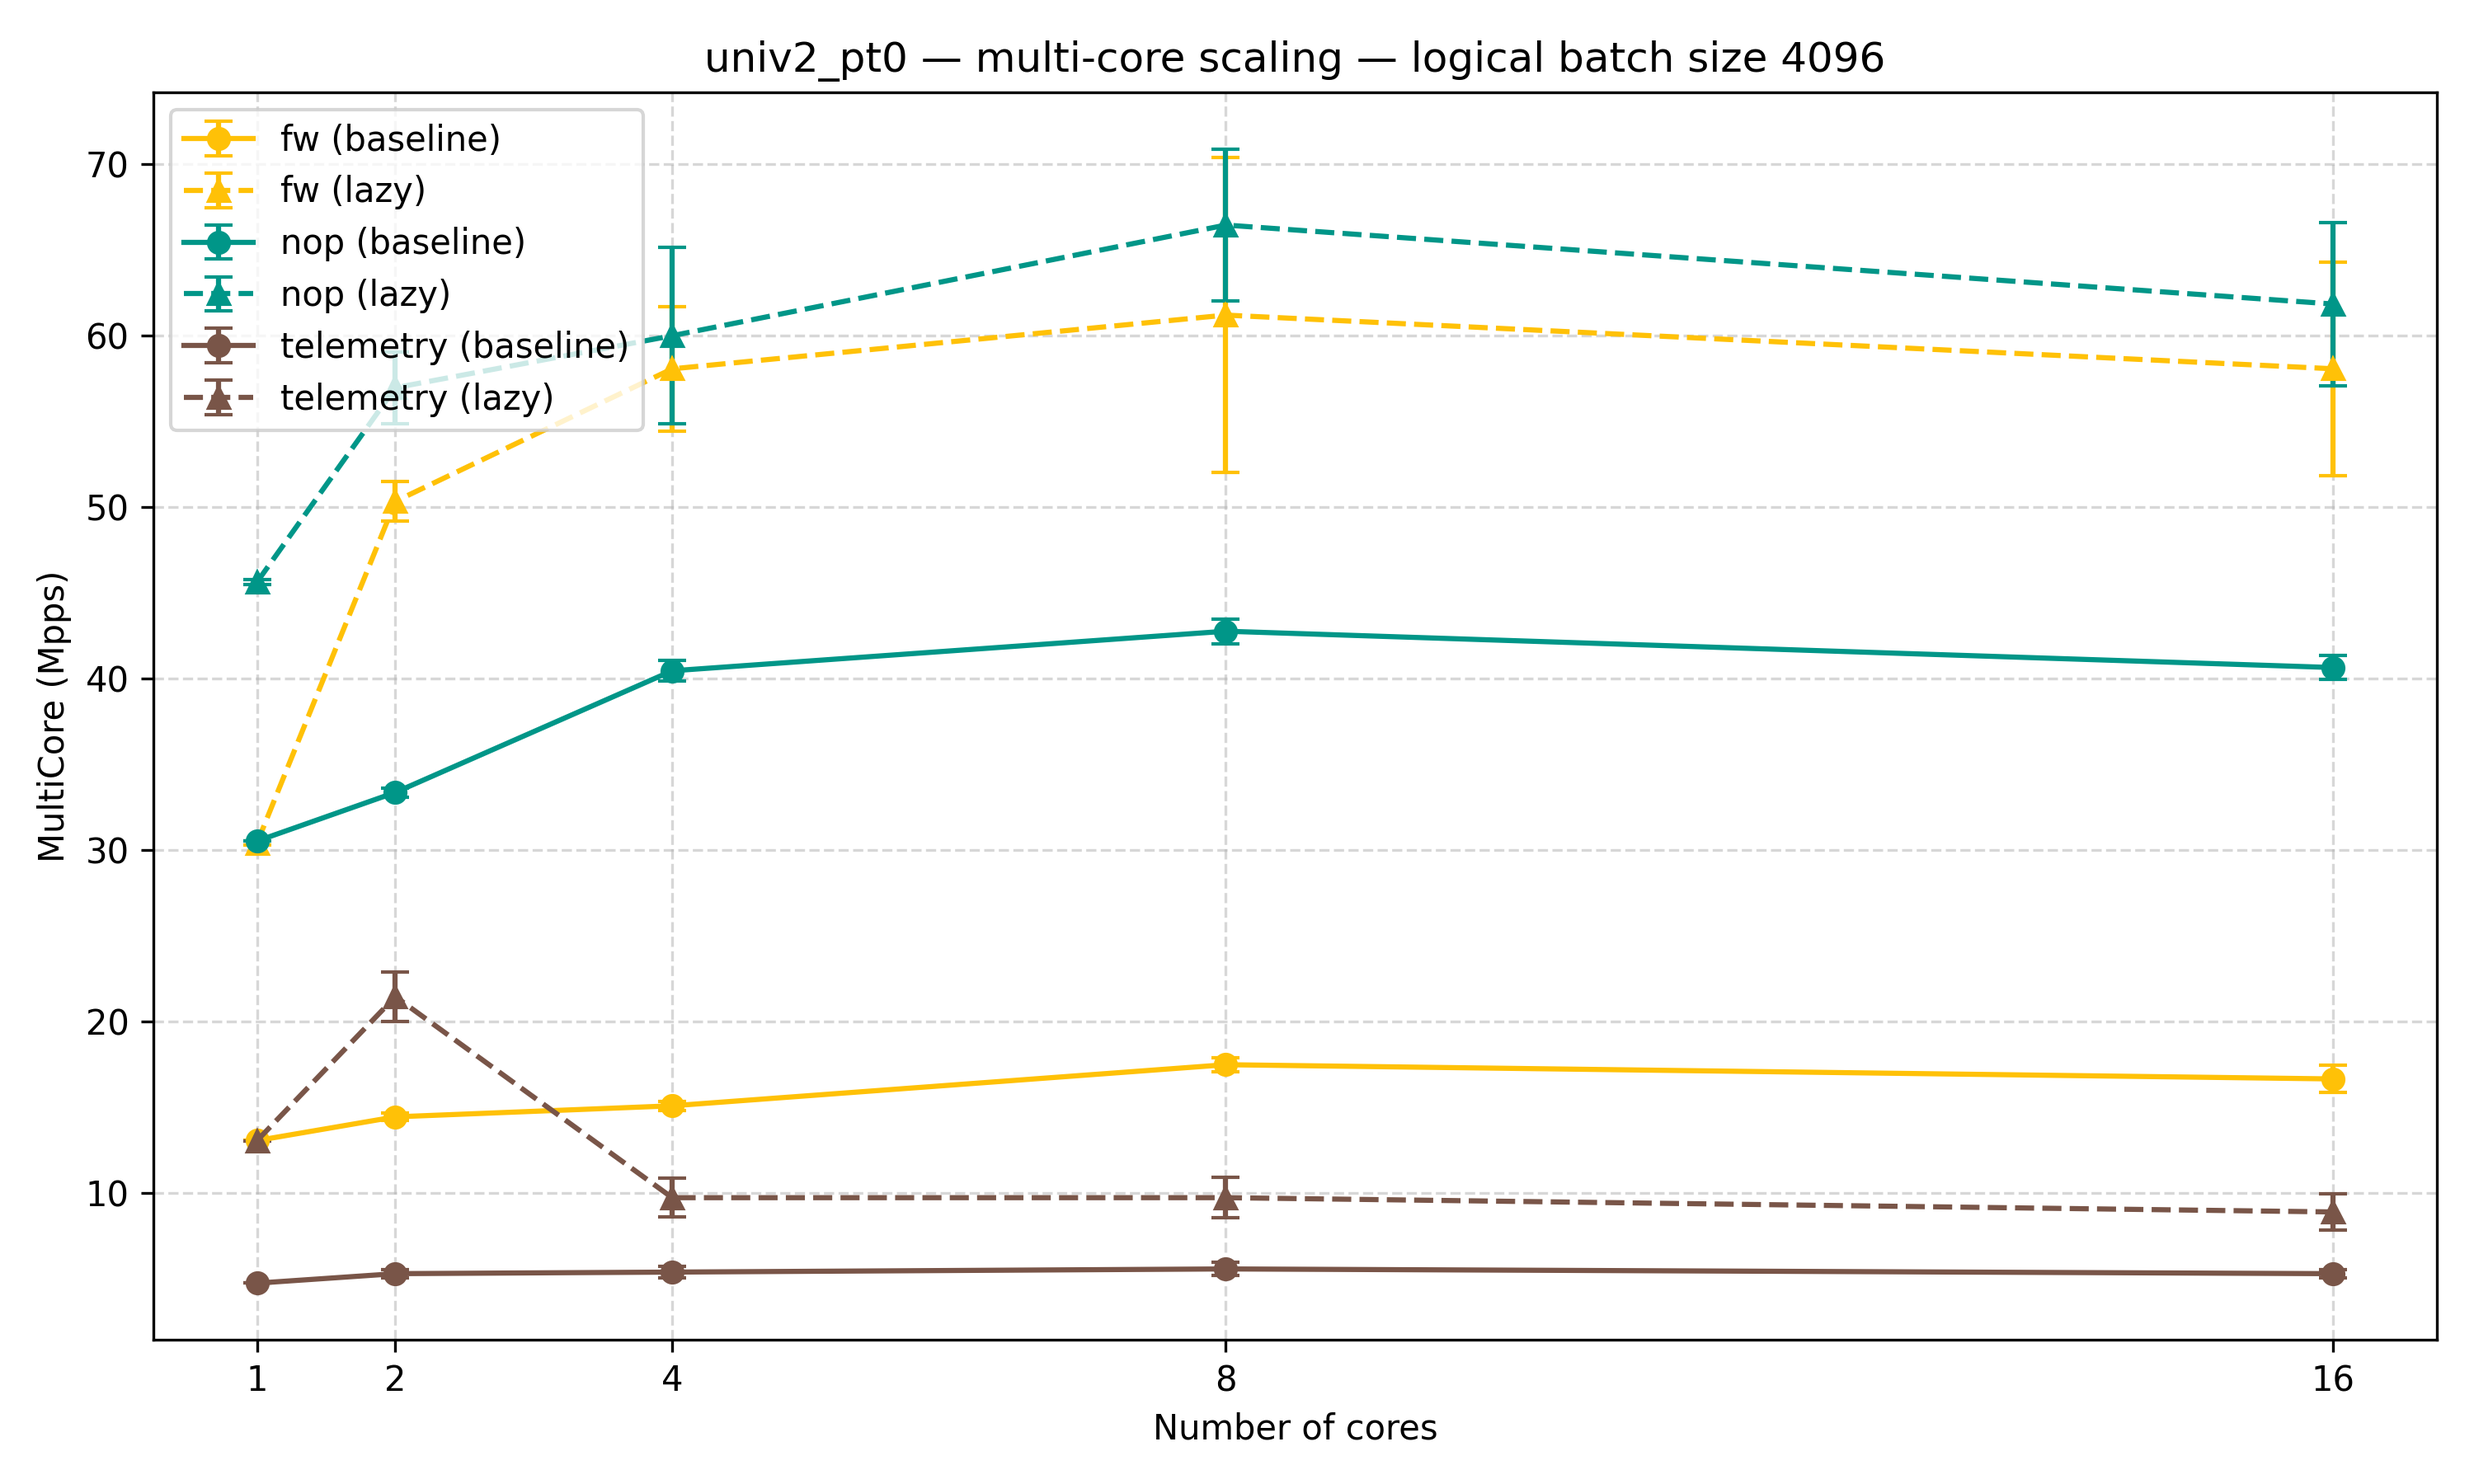
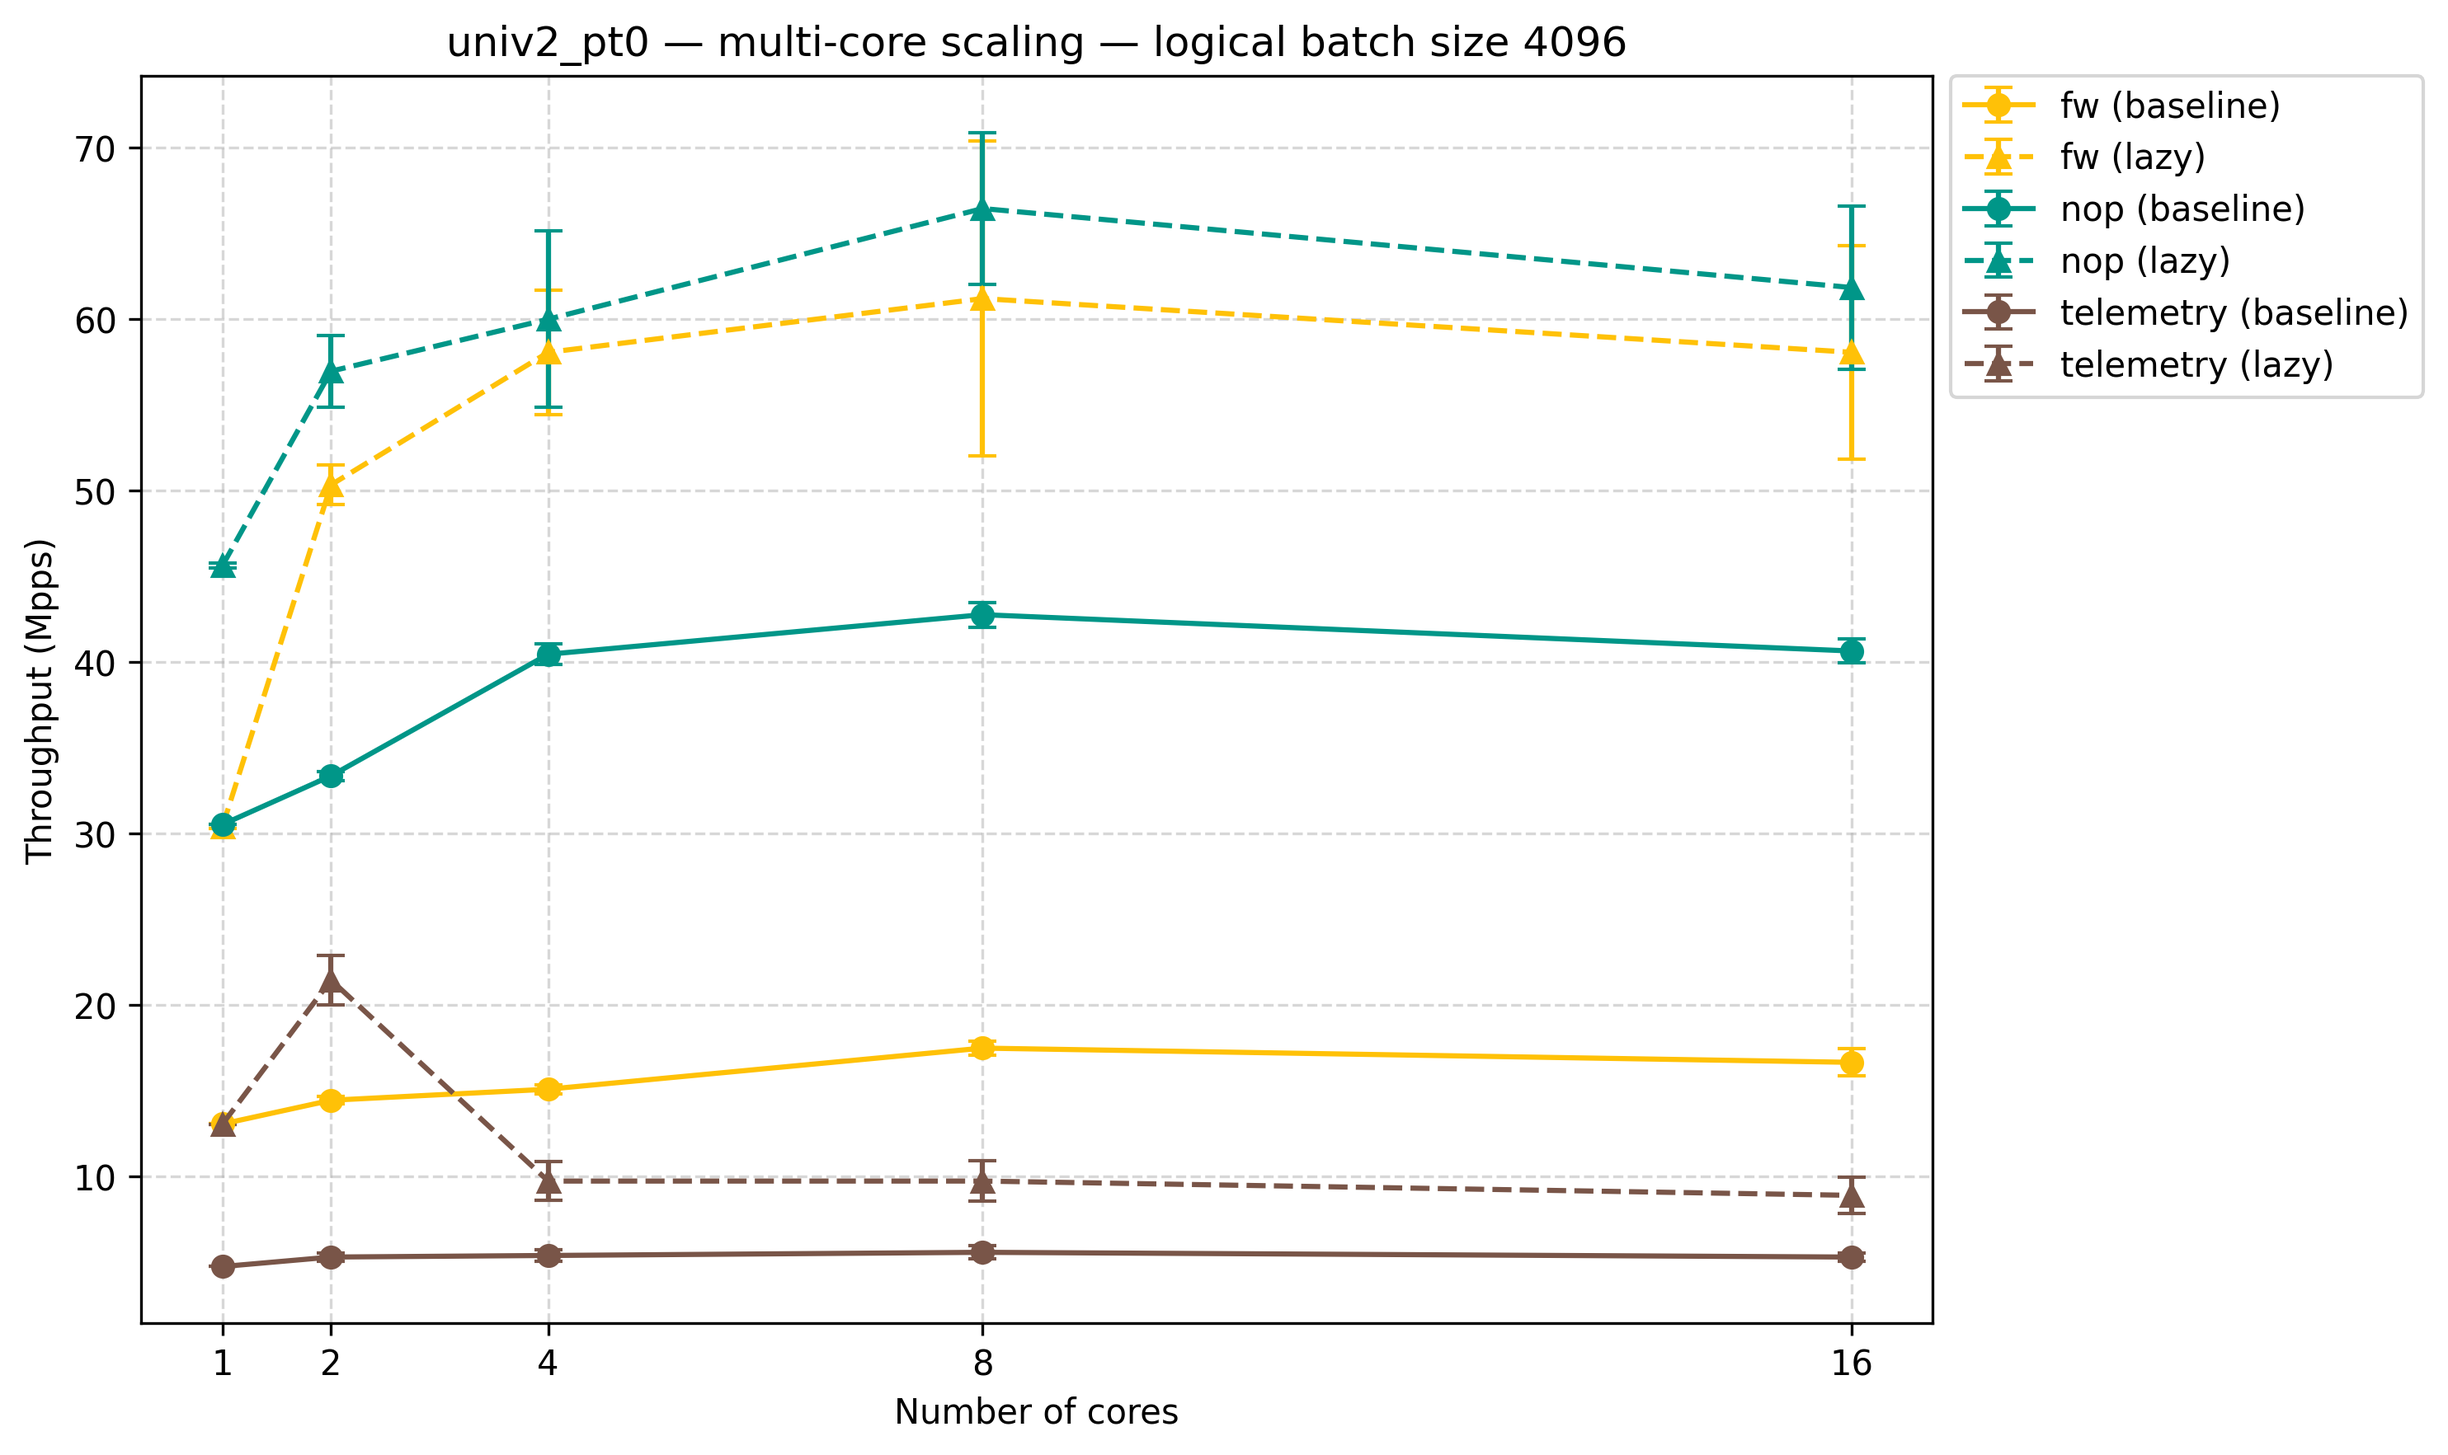
Plot update

diff --git a/microbench/plot_multi_core.py b/microbench/plot_multi_core.py
@@ -16,9 +16,7 @@ DATA_DIR = SCRIPT_DIR / ".." / "experiments" / "data"
 # FIG_FORMAT = "pdf"
 FIG_FORMAT = "png"
 
-_CSV_PATTERN = re.compile(
-    r"^(.+)-multi-core-((?:nop|fw|telemetry)(?:_batch_(?:greedy|lazy|sorted))?_multicore)(?:-lbatch(\d+))?\.csv$"
-)
+_CSV_PATTERN = re.compile(r"^(.+)-multi-core-((?:nop|fw|telemetry)(?:_batch_(?:greedy|lazy|sorted))?_multicore)(?:-lbatch(\d+))?\.csv$")
 
 _TECHNIQUE_LINESTYLES = {
     "baseline": "-",
@@ -89,16 +87,14 @@ def parse_csv_files(data_dir: Path) -> dict:
 def plot_scaling(data: dict, metric: str = "mpps"):
     """One line plot per (pcap, lbatch): throughput vs nb_cores, one line per NF+technique."""
     assert metric in ("mpps", "mbps")
-    ylabel = "MultiCore (Mpps)" if metric == "mpps" else "MultiCore (Mbps)"
+    ylabel = "Throughput (Mpps)" if metric == "mpps" else "Throughput (Mbps)"
 
     for pcap, pcap_data in sorted(data.items()):
         all_lbatches = sorted(
             {lb for nf_data in pcap_data.values() for lb in nf_data},
             key=lambda v: (v is not None, v),
         )
-        all_nb_cores = sorted(
-            {nc for nf_data in pcap_data.values() for lb_data in nf_data.values() for nc in lb_data}
-        )
+        all_nb_cores = sorted({nc for nf_data in pcap_data.values() for lb_data in nf_data.values() for nc in lb_data})
 
         for lbatch in all_lbatches:
             _, ax = plt.subplots(figsize=(10, 6))
@@ -133,14 +129,14 @@ def plot_scaling(data: dict, metric: str = "mpps"):
             ax.set_ylabel(ylabel)
             lbatch_label = "" if lbatch is None else f" — logical batch size {lbatch}"
             ax.set_title(f"{pcap} — multi-core scaling{lbatch_label}")
-            ax.legend(loc="upper left")
+            ax.legend(loc="upper left", bbox_to_anchor=(1.01, 1), borderaxespad=0.0)
             ax.grid(True, linestyle="--", alpha=0.5)
 
             plt.tight_layout()
             lbatch_suffix = "no_lbatch" if lbatch is None else f"lbatch{lbatch}"
             out_file = OUT_DIR / f"{pcap}_multi_core_{lbatch_suffix}.{FIG_FORMAT}"
             print(f"Plotting to {out_file}...")
-            plt.savefig(out_file, dpi=300)
+            plt.savefig(out_file, dpi=300, bbox_inches="tight")
             plt.close()
 
 
@@ -154,9 +150,7 @@ def plot_efficiency(data: dict, metric: str = "mpps"):
             {lb for nf_data in pcap_data.values() for lb in nf_data},
             key=lambda v: (v is not None, v),
         )
-        all_nb_cores = sorted(
-            {nc for nf_data in pcap_data.values() for lb_data in nf_data.values() for nc in lb_data}
-        )
+        all_nb_cores = sorted({nc for nf_data in pcap_data.values() for lb_data in nf_data.values() for nc in lb_data})
 
         for lbatch in all_lbatches:
             _, ax = plt.subplots(figsize=(10, 6))
@@ -184,14 +178,14 @@ def plot_efficiency(data: dict, metric: str = "mpps"):
             ax.set_ylabel(ylabel)
             lbatch_label = "" if lbatch is None else f" — logical batch size {lbatch}"
             ax.set_title(f"{pcap} — multi-core efficiency{lbatch_label}")
-            ax.legend(loc="upper right")
+            ax.legend(loc="upper left", bbox_to_anchor=(1.01, 1), borderaxespad=0.0)
             ax.grid(True, linestyle="--", alpha=0.5)
 
             plt.tight_layout()
             lbatch_suffix = "no_lbatch" if lbatch is None else f"lbatch{lbatch}"
             out_file = OUT_DIR / f"{pcap}_multi_core_efficiency_{lbatch_suffix}.{FIG_FORMAT}"
             print(f"Plotting to {out_file}...")
-            plt.savefig(out_file, dpi=300)
+            plt.savefig(out_file, dpi=300, bbox_inches="tight")
             plt.close()
 
 
